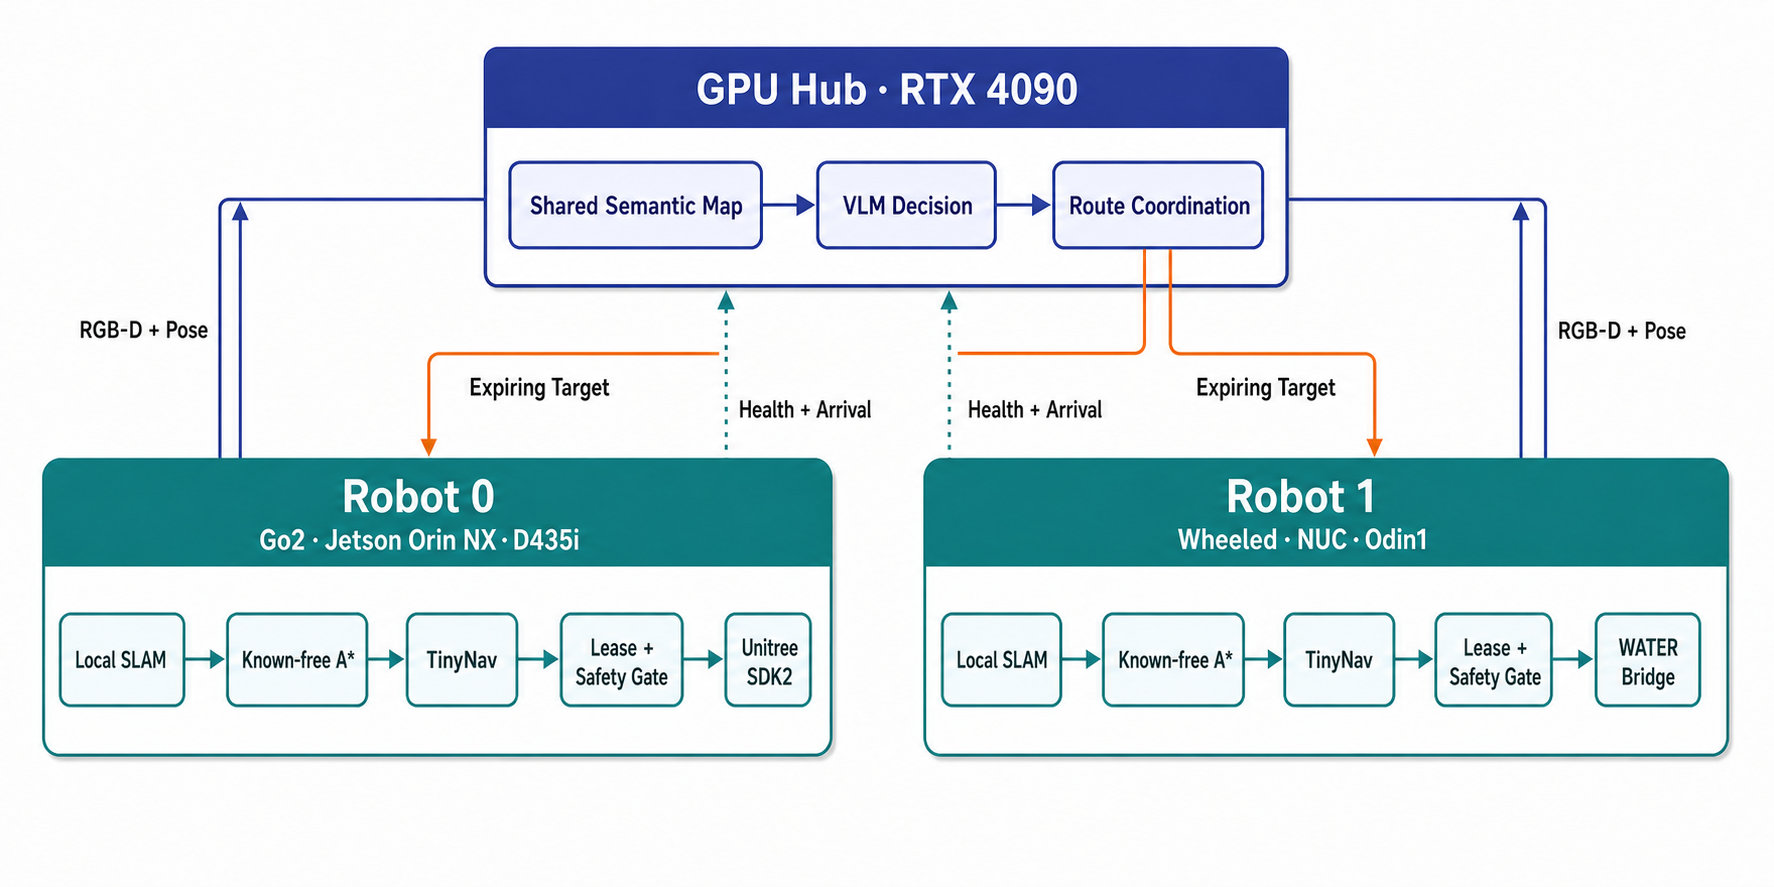
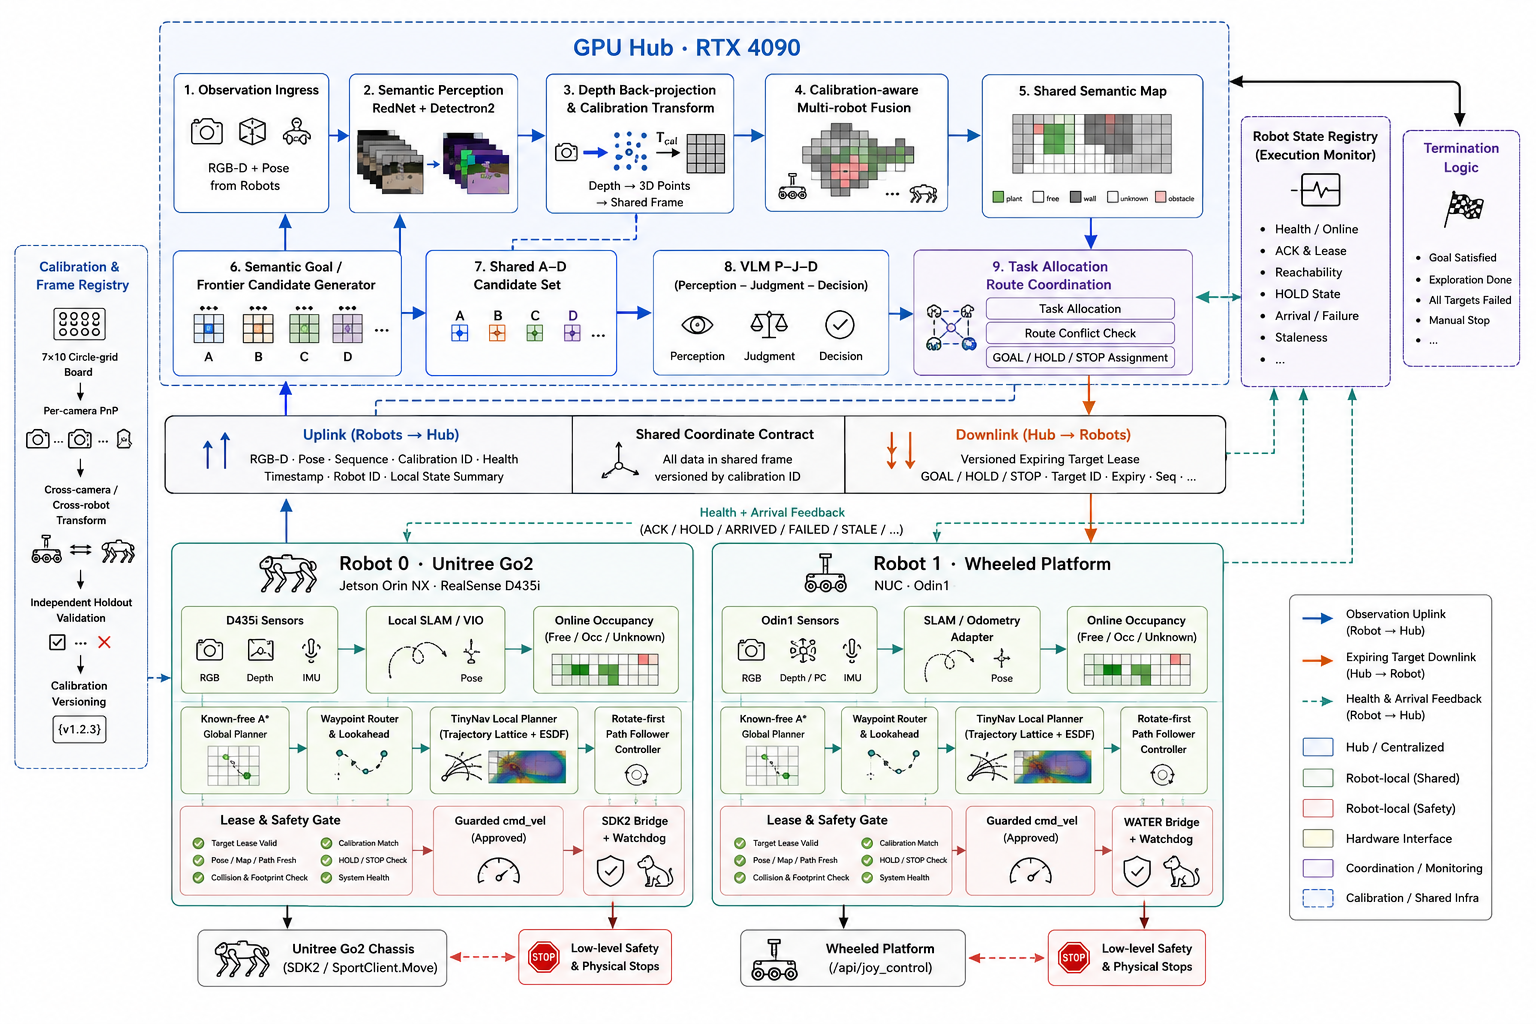
docs: publish latest system architecture

diff --git a/README.md b/README.md
@@ -23,7 +23,9 @@ authority.
 ## System architecture
 
 <p align="center">
-  <img src="media/image/system_architecture.png" width="1000" alt="TopoFocus architecture: RTX 4090 Hub coordinating Robot 0 and Robot 1 while planning, control and safety remain robot-local">
+  <a href="media/image/system_architecture.png">
+    <img src="media/image/system_architecture.png" width="100%" alt="TopoFocus system architecture: shared semantic perception and VLM coordination on the RTX 4090 Hub with robot-local planning, control and safety">
+  </a>
 </p>
 
 ## Real-world deployment
@@ -356,9 +358,9 @@ SPL uses the independently measured approximate shortest feasible path
       <img src="media/demo/scene03_formal_05_preview.gif" width="440" alt="Formal 05 rollout"><br>
       <small>Dashboard</small><br>
       <img src="media/demo/scene03_formal_05_dashboard.gif" width="440" alt="Formal 05 dashboard"><br>
-      Under coordinated role assignment, Robot 0 HOLDs while retaining shared
-      observations; Robot 1 completes long-range exploration, switches to the
-      plant semantic region and auto-ARRIVED, confirmed by the operator.<br>
+      Coordinated role assignment preserves Robot 0 observations while Robot 1
+      completes long-range exploration, switches to the plant semantic region
+      and auto-ARRIVED, confirmed by the operator.<br>
       <a href="media/demo/scene03_formal_05_third_view.mp4">Third view</a> ·
       <a href="media/demo/scene03_formal_05_dashboard.mp4">Dashboard</a>
     </td>
@@ -373,7 +375,7 @@ SPL uses the independently measured approximate shortest feasible path
 | Formal 02 | FAILURE | `5.754388 m` | `17.902160 m` | `0.0` | `0.0` |
 | Formal 03 | SUCCESS | `9.037490 m` | `11.606679 m` | `0.689524` | `1.000000` |
 | Formal 04 | SUCCESS | `9.391253 m` | `13.010775 m` | `0.693557` | `1.000000` |
-| Formal 05 | SUCCESS | `HOLD · 0.006053 m net` | `19.152683 m` | `0.446727` | `0.730968` |
+| Formal 05 | SUCCESS | `0.006053 m net` | `19.152683 m` | `0.446727` | `0.730968` |
 
 [Full five-experiment archive](audit/SCENE03_PLANT_FORMAL_EXPERIMENTS_01_05_20260731.md)
 · [Formal 01 failure record](audit/SCENE03_PLANT_FORMAL_EXPERIMENT_01_FAILURE_20260730.md)
